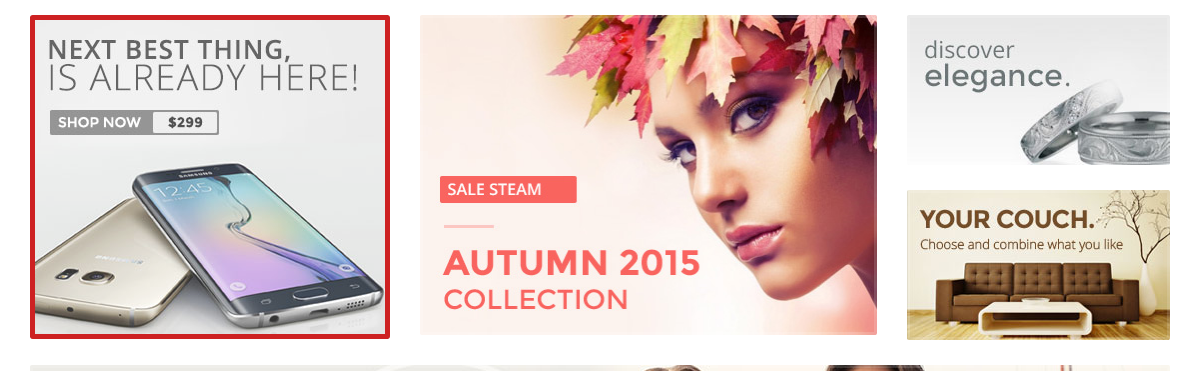
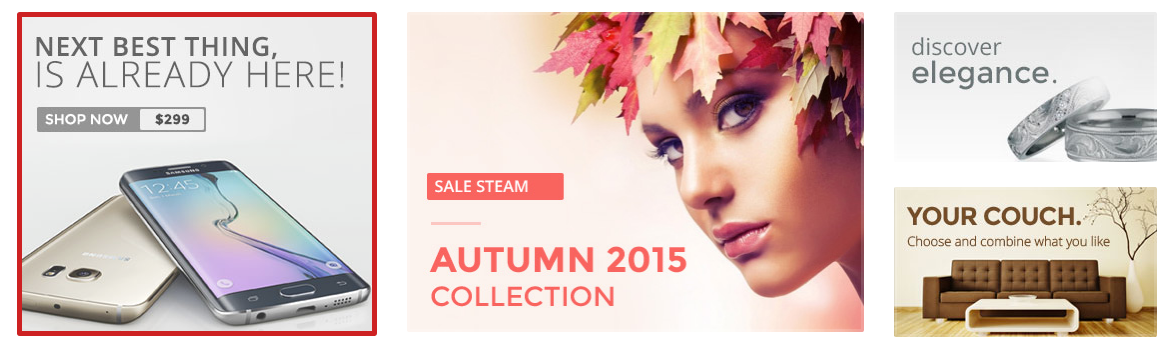
Module 11

diff --git a/Blocks/511/less/511.less b/Blocks/511/less/511.less
@@ -1,38 +1,19 @@
-.type-511{
-    @color-font: #CD2122;
-    .title{
-        font-size: 18px;
-        font-weight: bold;
+.type-511{   
+    .hoverBorder{
+        position:relative;
+        display:inline-block;
+        margin-bottom:18px
     }
-    .type-511-content {
-        background-color: #ffffff;
+    .hoverBorder:after{
+        content:'';
+        position:absolute;
+        left:0;
+        top:0;
+        bottom:0;
+        right:0;border-radius:3px;
+        box-shadow:inset 0 0 0 3px hsla(0,0%,100%,.15);
     }
-    h4 {
-        color: @color-font;
-        .title;
+    .hoverBorder:hover:after{
+        box-shadow:inset 0 0 0 5px #cd2122
     }
-    .hoverborder {
-        position: relative;
-        display: inline-block;
-        margin-bottom: 20px;
-    }
-    .theHoverBorder{
-        transition: all 0.2s ease-out;
-        position: absolute;
-        left: 0;
-        top: 0;
-        bottom: 0;
-        right: 0;
-    }
-    .theHoverBorder:hover {
-        box-shadow: 0 0 0 5px @color-font;
-    }
-    img{
-        max-width: 100%;
-        height: auto;
-        vertical-align: middle;
-    }
-    figure section a{
-        display: block;
-    }       
 }

diff --git a/Blocks/511/css/511.css b/Blocks/511/css/511.css
@@ -1,36 +1,18 @@
-.type-511 .title {
-  font-size: 18px;
-  font-weight: bold;
-}
-.type-511 .type-511-content {
-  background-color: #ffffff;
-}
-.type-511 h4 {
-  color: #CD2122;
-  font-size: 18px;
-  font-weight: bold;
-}
-.type-511 .hoverborder {
+.type-511 .hoverBorder {
   position: relative;
   display: inline-block;
-  margin-bottom: 20px;
+  margin-bottom: 18px;
 }
-.type-511 .theHoverBorder {
-  transition: all 0.2s ease-out;
+.type-511 .hoverBorder:after {
+  content: '';
   position: absolute;
   left: 0;
   top: 0;
   bottom: 0;
   right: 0;
+  border-radius: 3px;
+  box-shadow: inset 0 0 0 3px rgba(255,255,255,0.15);
 }
-.type-511 .theHoverBorder:hover {
-  box-shadow: 0 0 0 5px #CD2122;
-}
-.type-511 img {
-  max-width: 100%;
-  height: auto;
-  vertical-align: middle;
-}
-.type-511 figure section a {
-  display: block;
+.type-511 .hoverBorder:hover:after {
+  box-shadow: inset 0 0 0 5px #cd2122;
 }

diff --git a/Blocks/511/511.php b/Blocks/511/511.php
@@ -2,54 +2,44 @@
 
 <html>
 
-<head>
-    <title></title>
-    <meta charset="UTF-8">
-    <meta name="viewport" content="width=device-width, initial-scale=1.0">
+    <head>
+        <title></title>
+        <meta charset="UTF-8">
+        <meta name="viewport" content="width=device-width, initial-scale=1.0">
 
-    <link href="css/font-awesome.min.css" rel="stylesheet" type="text/css" />
-    <link href="css/bootstrap.min.css" rel="stylesheet" type="text/css" />
-    <?php
-    if (!class_exists('lessc')) {
-        include ('./libs/lessc.inc.php');
-    }
-    $less = new lessc;
-    $less->compileFile('less/511.less', 'css/511.css');
-    ?>
-    <link href="css/511.css" rel="stylesheet" type="text/css" />
+        <link href="css/font-awesome.min.css" rel="stylesheet" type="text/css" />
+        <link href="css/bootstrap.min.css" rel="stylesheet" type="text/css" />
+        <?php
+        if (!class_exists('lessc')) {
+            include ('./libs/lessc.inc.php');
+        }
+        $less = new lessc;
+        $less->compileFile('less/511.less', 'css/511.css');
+        ?>
+        <link href="css/511.css" rel="stylesheet" type="text/css" />
 
-
-    <script src="js/jquery-3.1.1.min.js" type="text/javascript"></script>
-    <script src="js/scripts.js" type="text/javascript"></script>
-
-</head>
-
-<body>
-    <div class="type-511">
-        <div class="container type-511-content">
-            <div class="row">
-                <!--BEGIN PREFERENTIAL BANNER-->
-                <section class="col-sm-12">
-                    <h4 class="title">SOME OF OUR LATEST OFFERS</h4>
-                    <!-- BEGIN IMAGES-->
+        <script src="js/jquery-3.1.1.min.js" type="text/javascript"></script>
+    </head>
+    <body>
+        <div class="type-511">
+            <div class="container">
+                <section >
                     <div class="row">
-                        <figure class="col-sm-4">
-                            <a class="hoverborder" href="#"><span><img src="images/bnr1.jpg" alt=""><span class="theHoverBorder"></span></span></a>
-                        </figure>
-                        <figure class="col-sm-5">
-                            <a class="hoverborder" href="#"><span><img src="images/bnr2.jpg" alt=""><span class="theHoverBorder"></span></span></a>
-                        </figure>
-                        <figure class="col-sm-3">
-                            <a class="hoverborder" href="#"><span><img src="images/bnr3.jpg" alt=""><span class="theHoverBorder"></span></span></a> 
-                            <a class="hoverborder" href="#"><span><img src="images/bnr4.jpg" alt=""><span class="theHoverBorder"></span></span></a>
-                        </figure>                      
+                        <div class="col-sm-4">
+                            <a href="#" class=" -link hoverBorder" target="_blank" itemprop="url"><img src="images/bnr1.jpg" alt="" title="banner-set1-1.jpg" class="img-responsive"></a>
+                        </div>
+                        <div class="col-sm-5">
+                            <a href="#" class=" -link hoverBorder" target="_blank" itemprop="url"><img src="images/bnr2.jpg" alt="" title="banner-set1-2.jpg" class="img-responsive"></a>
+                        </div>
+                        <div class="col-sm-3">
+                            <a href="#" class=" -link hoverBorder" target="_blank" itemprop="url"><img src="images/bnr3.jpg" alt="" title="banner-set2-32.jpg" class="img-responsive"></a>
+                        </div>
+                        <div class="col-sm-3">
+                            <a href="#" class=" -link hoverBorder" target="_blank" itemprop="url"><img src="images/bnr4.jpg" alt="" title="banner-set2-41.jpg" class="img-responsive"></a>
+                        </div>
                     </div>
-                    <!--END IMAGES--> 
                 </section>
-                <!--END PREFERENTIAL BANNER-->
             </div>
         </div>
-    </div>
-    <script src="js/bootstrap.min.js" type="text/javascript"></script>
-</body>
+    </body>
 </html>
